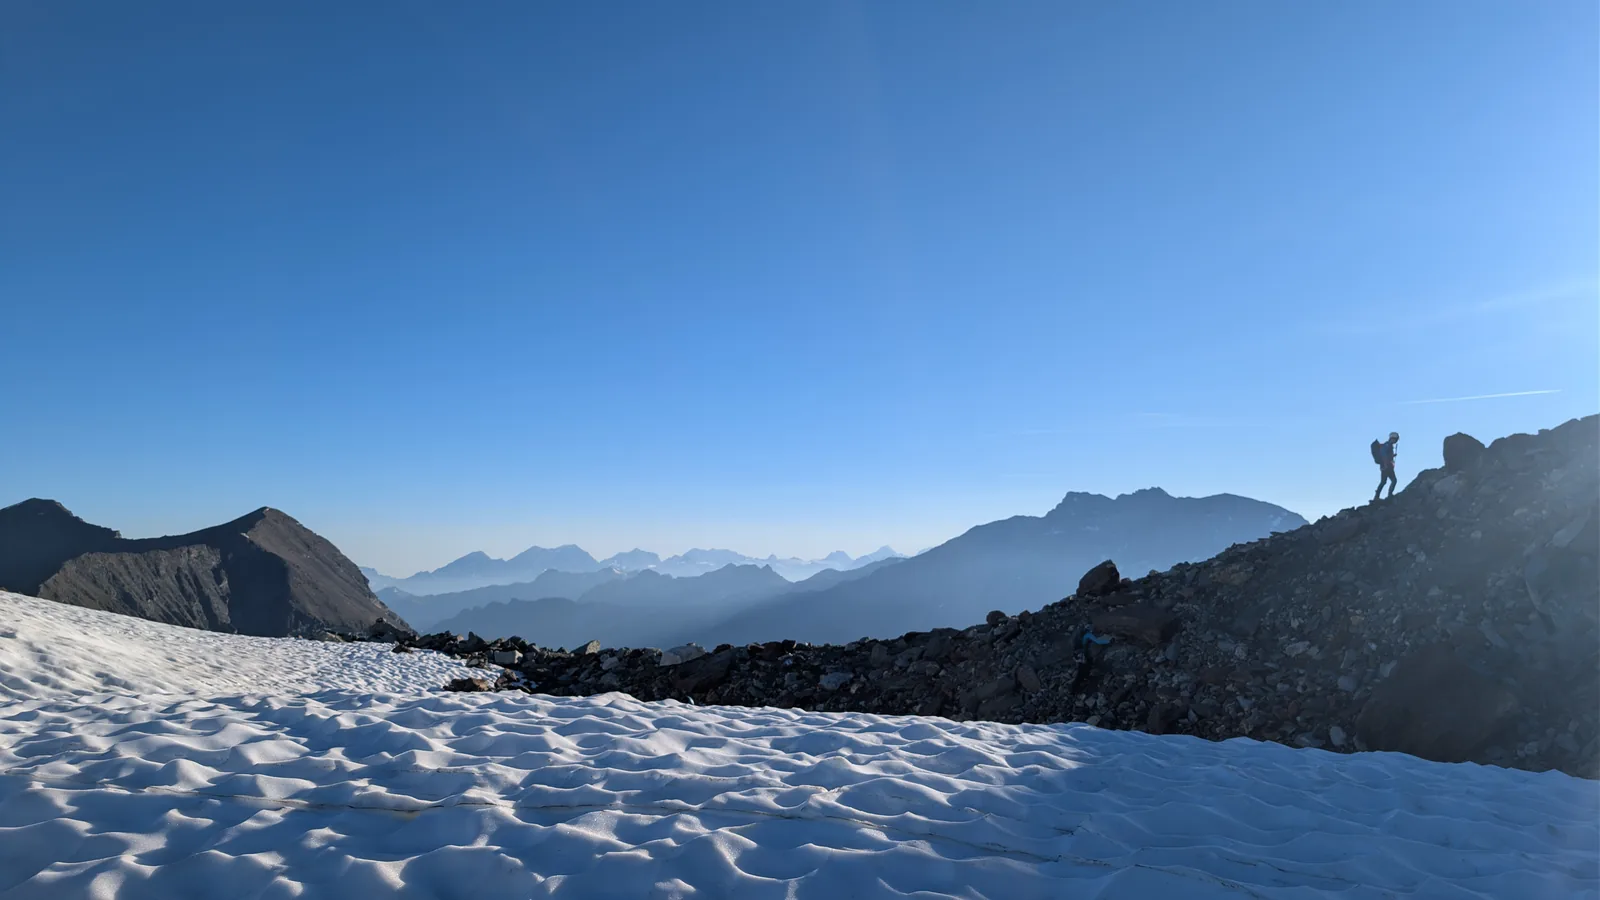
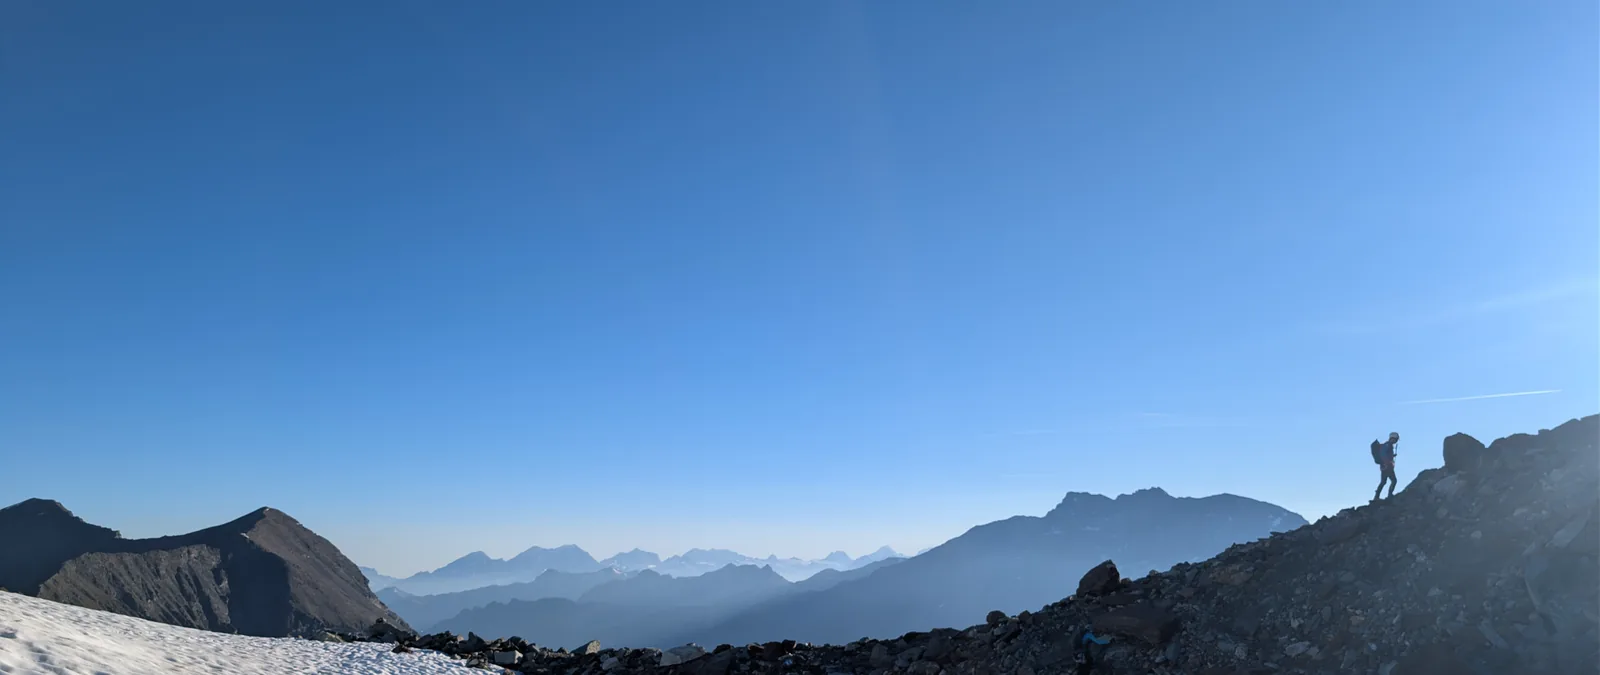
image

diff --git a/content/index.md b/content/index.md
@@ -4,12 +4,12 @@ description: Notes across climbing, training, neuroscience, books, side projects
 socialImage: the-mountain-path.webp
 ---
 
+![A climber with a pack traversing a rocky ridge above a snowfield, hazy ranges layered behind](attachments/the-mountain-path.webp)
+*En route to Pigne de la Lé, our first Alpine summit — June 2026 ([[expeditions/alps2026|Alps 2026]]).*
+
 This is a working notebook — a place to publish a curated subset of the notes I keep across several private vaults. It is not a finished essay collection; some pages here are quite rough, others less so.
 
 The framing is "the mountain path" because most of what I care about — research, alpinism, strength, reading books — is a path, a process, rather than an endpoint (summit). A song that feels quite fitting is ["I'm the Mountain" by Stoned Jesus](https://www.youtube.com/results?search_query=stoned+jesus+i%27m+the+mountain). In my mind, it describes exactly the process of "scaling oneself", self-improvement/discovery/actualisation to put it in less flowery terms. 
-
-![A climber with a pack traversing a rocky ridge above a sun-cupped snowfield, hazy ranges layered behind](attachments/the-mountain-path.webp)
-*En route to Pigne de la Lé, our first Alpine summit — June 2026 ([[expeditions/alps2026|Alps 2026]]).*
 
 ## Sections
 
